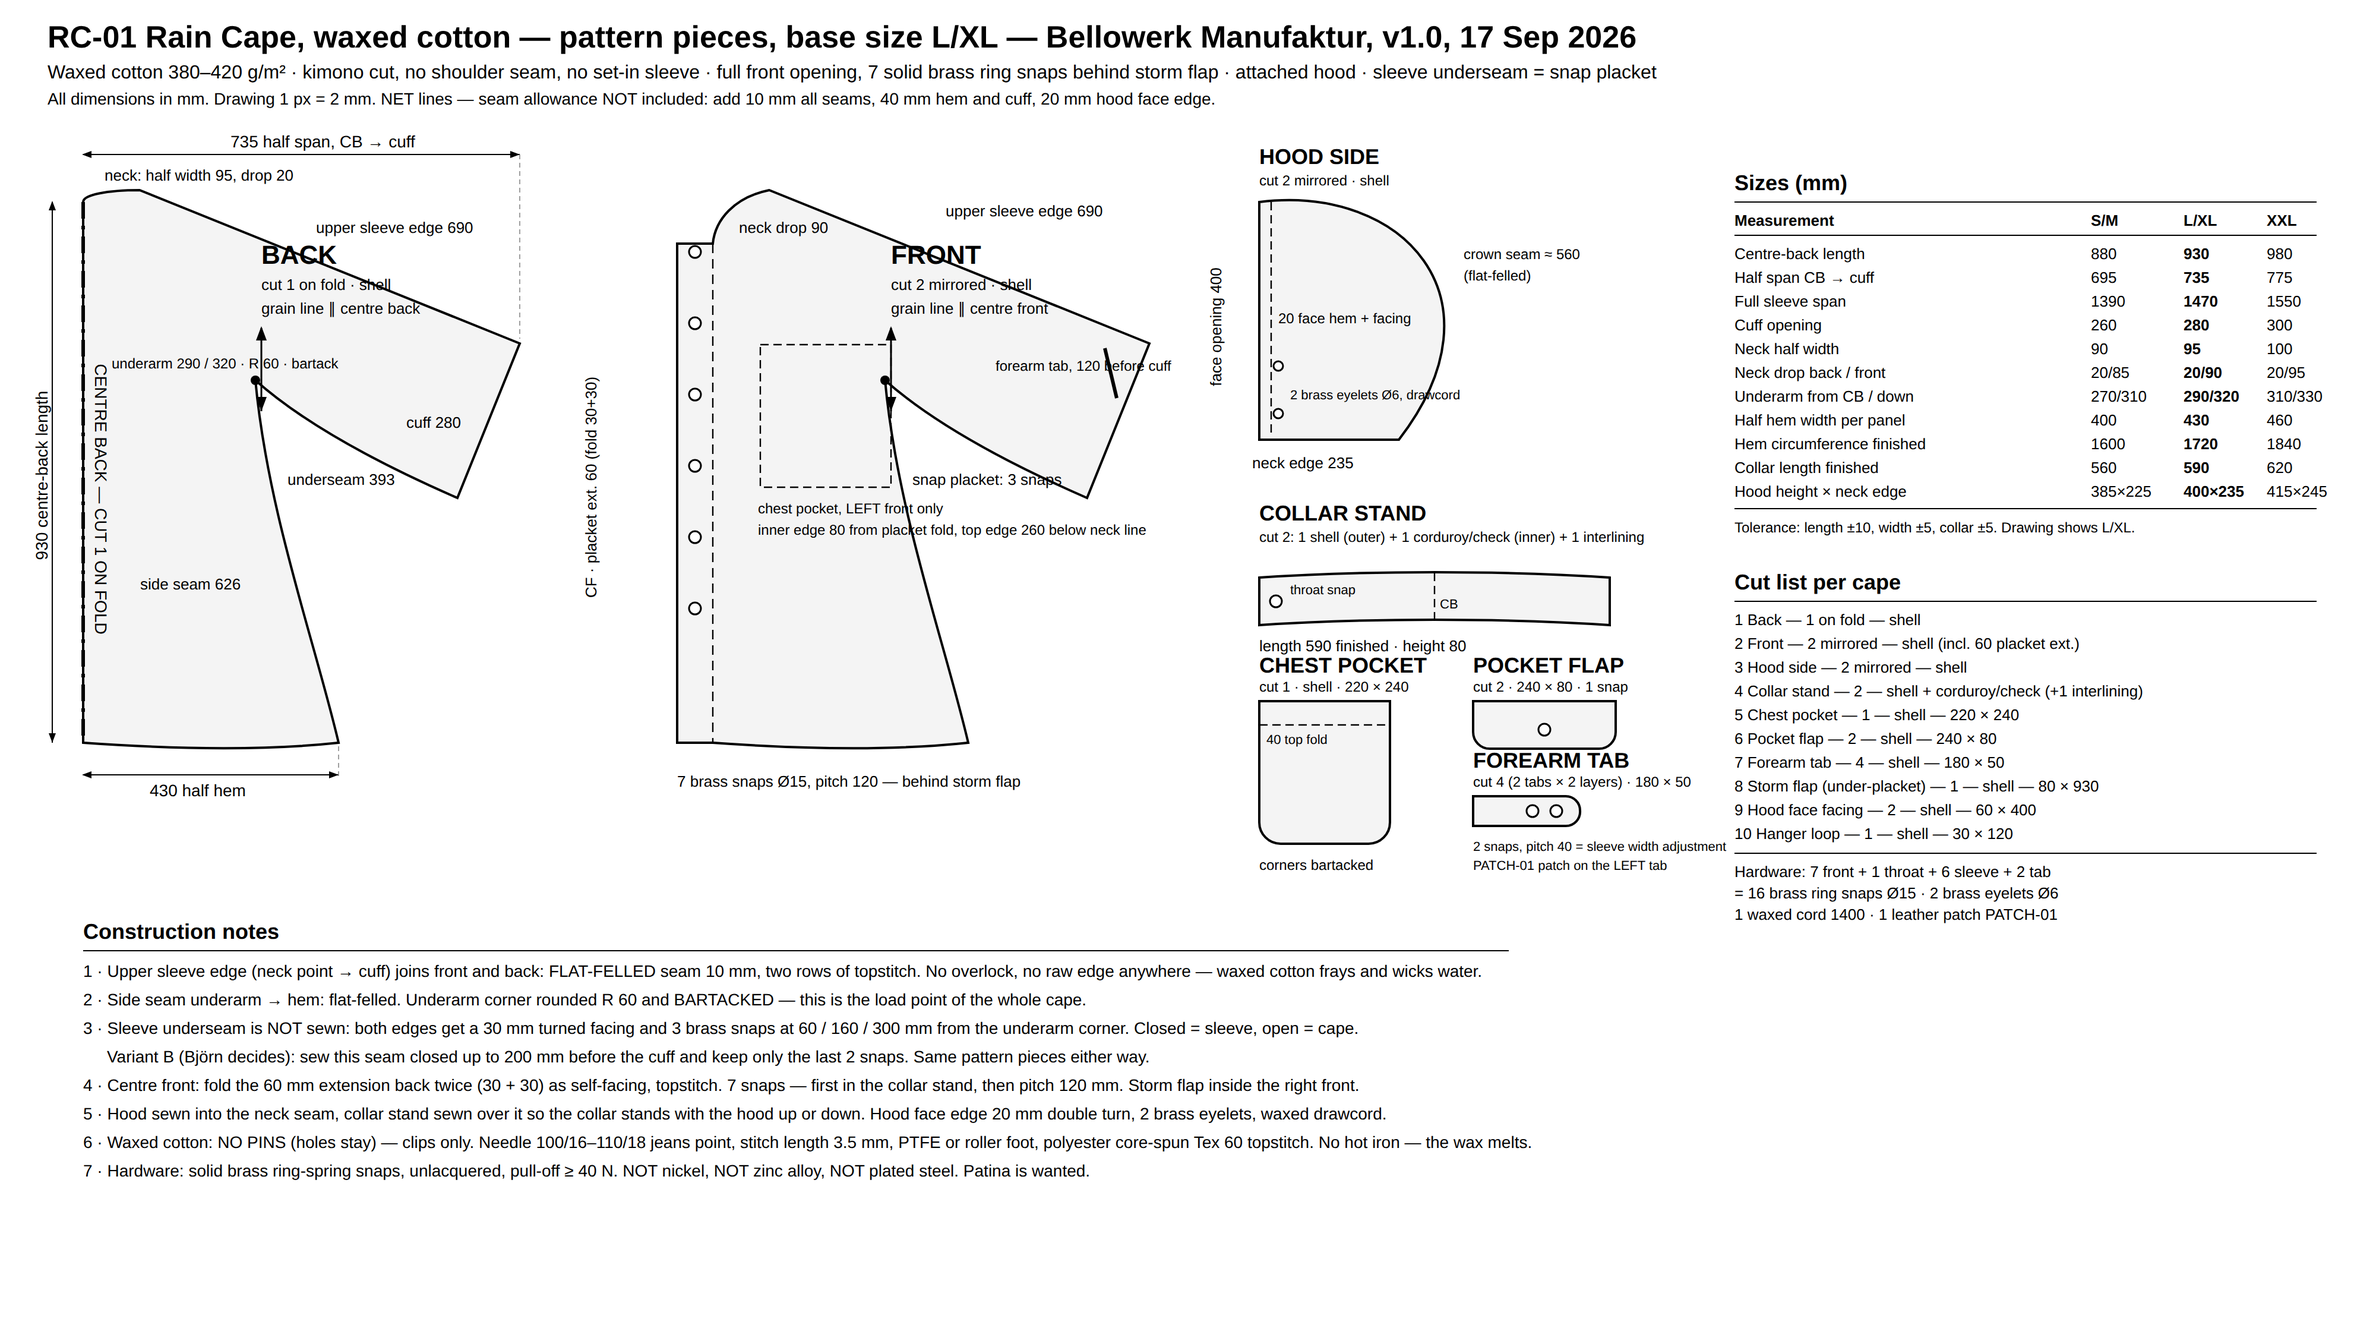
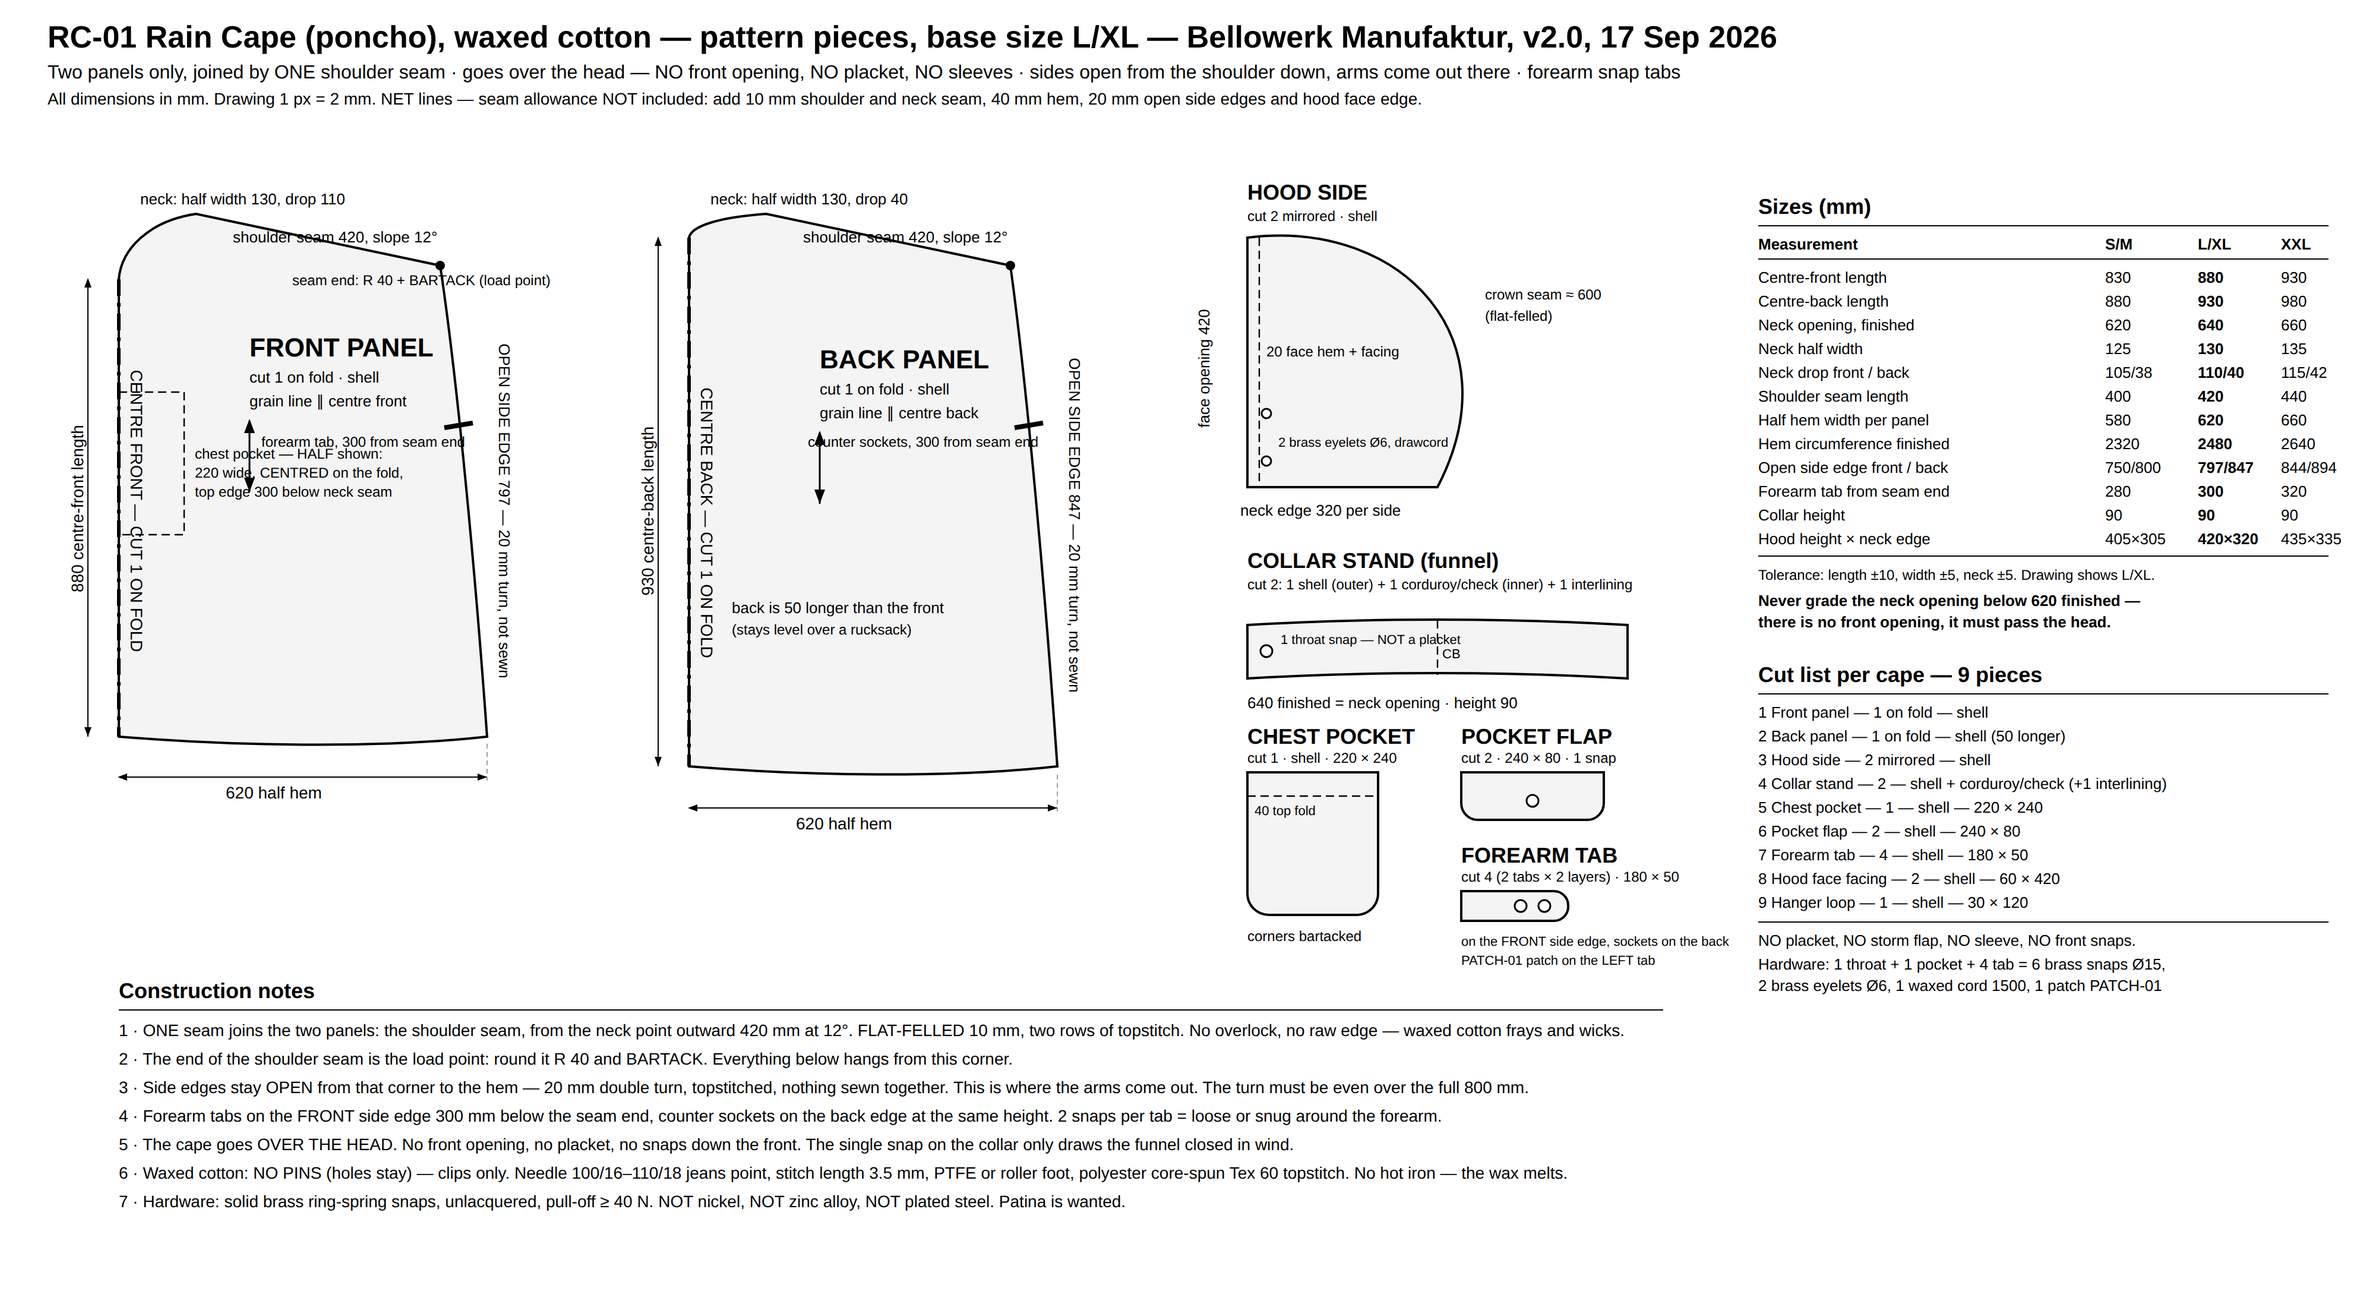
RC-01 v2.0: Cape statt Mantel — Poncho-Schnitt korrigiert
v1.0 hatte einen Mantel gezeichnet: Frontöffnung mit Knopfleiste und
geschlossene Ärmel. Falsch. Es ist ein Cape: über den Kopf, keine Leiste,
keine Ärmel. Zwei Teile, eine Schulternaht, Seiten ab Schulterende offen —
da kommen die Arme raus. Einzige Schließung am Korpus sind die
Unterarm-Riegel, die Vorder- und Rückenkante zusammenziehen.

Halsausschnitt dadurch kritisch: mindestens 620 mm fertig, muss über den Kopf.
Steht als eigene Prüfposition in der Abnahme. Teilezahl von 10 auf 9,
Beschläge von 16 auf 6 Druckknöpfe.

Claude-Session: https://claude.ai/code/session_01TCjyw6Et76p2KV5CRMgwz7

diff --git a/sourcing/bellowerk/specs/RC-01-regencape-oilskin.md b/sourcing/bellowerk/specs/RC-01-regencape-oilskin.md
@@ -1,10 +1,13 @@
-# RC-01 — Rain Cape, Waxed Cotton (Tech Pack v1.0, 17 Sep 2026)
+# RC-01 — Rain Cape, Waxed Cotton (Tech Pack v2.0, 17 Sep 2026)
 
 Bellowerk Manufaktur, Hamburg, Germany. Contact: Björn (owner).
 Attachment: `zeichnungen/RC-01-regencape.png` (pattern pieces, all dimensions).
-Reference product: our own cape "THE CAPE" (@herr.bello.und.frau.wuff) — the new version is
-**open at the centre front** instead of a pullover, and the sleeve can be **closed at the forearm
-with snaps**.
+Reference product: our own cape "THE CAPE" (@herr.bello.und.frau.wuff).
+
+> **v2.0 corrects v1.0.** v1.0 wrongly drew a coat: front opening with a snap placket and closed
+> sleeves. It is a **cape**: pulled over the head, **no front opening, no placket, no sleeves**.
+> The sides are open from the shoulder down — that is where the arms come out. The only closure on
+> the body is a pair of snap tabs that draw the open edges together at the forearm.
 
 > **New product category.** This is the first textile product. The material rules in
 > `markenbrief.md` (leather + solid brass, no stitching, no thread) describe the leather line and
@@ -12,97 +15,103 @@ with snaps**.
 
 ## 1. Product
 
-Wide A-line rain cape in waxed cotton for dog walking. Kimono cut: sleeve and body cut in one
-piece, no set-in sleeve, no shoulder seam. Full centre-front opening with brass ring snaps behind a
-storm flap. Attached hood, stand collar, one chest patch pocket with flap. The sleeve underseam is
-**not** a closed seam but a snap placket, so the arm section opens completely (cape) or closes
-around the forearm (sleeve). Worn over a jumper, long enough to cover the hips while walking.
+Wide poncho-style rain cape in waxed cotton for dog walking. **Two panels only** — front and back,
+each cut on the fold — joined by a shoulder seam that runs from the neck out over the shoulder and
+a little way down the upper arm. Below that the side edges hang **completely open**: the cape
+drapes over the arms, and the hands come out at the side. A pair of brass snap tabs at forearm
+height pulls the front and back edge together when it is windy; open, the cape falls free.
+
+Funnel-style stand collar with attached hood. One patch pocket with a flap, centred on the chest.
+No front opening — the cape goes over the head, which is why the neck opening is cut wide
+(**minimum 620 mm finished**, must pass the head).
 
 ## 2. Material
 
 | Part | Specification |
 |---|---|
 | Shell | **Waxed cotton ("oilskin")**, 100 % cotton, paraffin/beeswax dry-wax finish, **380–420 g/m²** (10–12 oz), plain or 2/2 twill weave. Halley Stevensons / British Millerain quality or equal. Re-waxable, **not** PU- or PVC-coated. Water column ≥ 800 mm, breathable. Colours: black, dark olive, dark brown (send swatches). |
-| Hood + collar facing | Same waxed cotton. Inside of collar stand: cotton corduroy or check cotton (see HM-01 lining), 8 wales/cm, 280 g/m². |
+| Hood + collar inner | Same waxed cotton outside. Inside of the collar stand: cotton corduroy or the HM-01 check cotton, 280 g/m². |
 | Snaps | **Ring-spring snaps, solid brass**, cap Ø 15 mm, unlacquered / antique brass. Pull-off ≥ 40 N. NOT nickel, NOT zinc alloy ("Zamak"), NOT plated steel. |
 | Eyelets | Solid brass, inner Ø 6 mm, 2 pcs in the hood face hem. |
 | Thread | Polyester core-spun, **Tex 60 / Tkt 40** (topstitch) and Tex 40 / Tkt 60 (assembly), colour matched, UV- and rot-resistant. |
-| Drawcord | Waxed cotton cord Ø 4 mm, 1400 mm, brass-tipped or knotted, no plastic toggles. |
-| Label | Leather patch PATCH-01 (see `specs/PATCH-01-markenpatch.md`), sewn (not screwed) to the left forearm tab. Care label + size label in the collar. |
+| Drawcord | Waxed cotton cord Ø 4 mm, 1500 mm, brass-tipped or knotted, no plastic toggles. |
+| Label | Leather patch PATCH-01 (see `specs/PATCH-01-markenpatch.md`), sewn (not screwed) to the left forearm tab. Care + size label in the collar. |
 | Interlining | Collar stand only: woven fusible or sewn-in cotton canvas, 1 layer. |
 
-Not acceptable: PU/PVC coating, nylon, plastic snaps or toggles, zinc alloy hardware, visible
-raw edges, hook-and-loop fastener.
+Not acceptable: PU/PVC coating, nylon, plastic snaps or toggles, zinc alloy hardware, visible raw
+edges, hook-and-loop fastener.
 
 ## 3. Sizes (3 sizes, generous cape fit — starting values, confirm on the first sample)
 
 | Measurement (mm) | S/M (DE 34–38) | L/XL (DE 40–44) | XXL (DE 46–50) |
 |---|---|---|---|
-| Centre-back length, neck line → hem | 880 | **930** | 980 |
-| Half span, centre back → cuff | 695 | **735** | 775 |
-| Full sleeve span (2 × half span) | 1390 | **1470** | 1550 |
-| Cuff opening (sleeve end) | 260 | **280** | 300 |
-| Neck half width (front = back) | 90 | **95** | 100 |
-| Neck drop back / front | 20 / 85 | **20 / 90** | 20 / 95 |
-| Underarm point, from CB / from neck line | 270 / 310 | **290 / 320** | 310 / 330 |
-| Half hem width, per panel | 400 | **430** | 460 |
-| Hem circumference, finished | 1600 | **1720** | 1840 |
-| Collar length, finished | 560 | **590** | 620 |
-| Hood height × neck edge | 385 × 225 | **400 × 235** | 415 × 245 |
-| Front placket extension | 60 | **60** | 60 |
+| Centre-front length, neck seam → hem | 830 | **880** | 930 |
+| Centre-back length, neck seam → hem | 880 | **930** | 980 |
+| Neck opening, finished circumference | 620 | **640** | 660 |
+| Neck half width (front = back) | 125 | **130** | 135 |
+| Neck drop, front / back | 105 / 38 | **110 / 40** | 115 / 42 |
+| Shoulder seam, neck point → end | 400 | **420** | 440 |
+| Shoulder seam slope | 12° | **12°** | 12° |
+| Half hem width per panel | 580 | **620** | 660 |
+| Hem circumference, finished | 2320 | **2480** | 2640 |
+| Open side edge, front / back | 750 / 800 | **797 / 847** | 844 / 894 |
+| Forearm tab, from shoulder seam end | 280 | **300** | 320 |
+| Collar height | 90 | **90** | 90 |
+| Hood height × neck edge per side | 405 × 305 | **420 × 320** | 435 × 335 |
 
-L/XL is the base size in the drawing; the other sizes grade from it by the values above.
-Tolerance: lengths ±10 mm, widths ±5 mm, collar ±5 mm.
+The back is 50 mm longer than the front so the cape stays level when worn with a rucksack.
+L/XL is the base size in the drawing. Tolerance: lengths ±10 mm, widths ±5 mm, neck opening ±5 mm.
+
+**The neck opening is the critical measurement.** There is no front opening, so it has to pass the
+head. Never grade it below 620 mm finished.
 
 ## 4. Pattern pieces (per cape)
 
 | # | Piece | Cut | Material | Finished size |
 |---|---|---|---|---|
-| 1 | Back | 1 on fold | shell | see drawing |
-| 2 | Front | 2 mirrored | shell | see drawing, incl. 60 mm placket extension |
-| 3 | Hood side | 2 mirrored | shell | 400 × 235 mm neck edge |
-| 4 | Collar stand | 2 (outer + inner) | shell / corduroy | 590 × 80 mm |
+| 1 | Front panel | 1 on fold | shell | see drawing |
+| 2 | Back panel | 1 on fold | shell | see drawing, 50 longer than front |
+| 3 | Hood side | 2 mirrored | shell | 420 × 320 mm neck edge |
+| 4 | Collar stand | 2 (outer + inner) | shell / corduroy | 640 × 90 mm |
 | 5 | Chest pocket | 1 | shell | 220 × 240 mm |
 | 6 | Pocket flap | 2 | shell | 240 × 80 mm |
 | 7 | Forearm tab | 4 (2 tabs × 2 layers) | shell | 180 × 50 mm |
-| 8 | Storm flap (under-placket) | 1 | shell | 80 × 930 mm |
-| 9 | Hood face hem facing | 2 | shell | 60 × 400 mm |
-| 10 | Hanger loop | 1 | shell | 30 × 120 mm |
+| 8 | Hood face facing | 2 | shell | 60 × 420 mm |
+| 9 | Hanger loop | 1 | shell | 30 × 120 mm |
 
-**Seam allowance is NOT included in the drawing.** Add 10 mm on all seams, **40 mm** on the hem and
-the sleeve/cuff edge, 20 mm on the hood face edge.
+Nine pieces, no placket, no storm flap, no sleeve. **Seam allowance is NOT included in the
+drawing.** Add 10 mm on the shoulder and neck seams, **40 mm** on the hem, **20 mm** on the open
+side edges and the hood face edge.
 
 ## 5. Construction
 
-1. **Shoulder/sleeve seam**: join front to back along the upper sleeve edge (neck point → cuff),
-   **flat-felled seam 10 mm**, two rows of topstitching. No overlock, no raw edge anywhere.
-2. **Side seam**: from the underarm corner down to the hem, flat-felled. Round the underarm corner
-   R 60 mm and **bartack** it — this is the load point.
-3. **Sleeve underseam = snap placket, not a seam.** Both edges (front and back) get a 30 mm turned
-   facing. Set **3 brass snaps** on it: first 60 mm from the underarm corner, then at 160 mm and
-   at 300 mm, the last one 90 mm before the cuff edge. Closed = sleeve, open = cape.
-   *(Variant B, if Björn prefers the original look: sew this seam closed from the underarm to
-   200 mm before the cuff and keep only the last 2 snaps. Same pattern pieces.)*
-4. **Centre front**: fold the 60 mm extension back twice (30 + 30) as a self-facing, topstitch.
-   **7 brass snaps**, the first in the collar stand, then pitch 120 mm downwards. Storm flap (#8)
-   sewn to the inside of the right front, so water cannot reach the snap line.
-5. **Hood**: join the two hood sides along the crown seam, flat-felled. Face edge: 20 mm double
-   turn with the facing (#9), **2 brass eyelets** 80 mm apart at the front bottom, drawcord through.
-   Hood sewn into the neck seam.
-6. **Collar**: stand collar 80 mm high, outer in shell, inner in corduroy/check, one layer of
-   interlining. Sewn over the hood neck seam so the collar stands with the hood up or down.
-   1 snap at the throat.
-7. **Chest pocket**: left front, top edge 260 mm below the neck line, inner edge 80 mm from the
-   placket fold. Patch pocket, 40 mm top fold, corners bartacked. Flap over it, 1 brass snap
-   centred.
-8. **Forearm tabs**: 2 layers, edge-stitched, sewn to the upper sleeve edge 120 mm before the cuff.
-   **2 snaps per tab** (pitch 40 mm) so the sleeve width adjusts over a jumper.
+1. **Shoulder seam** — the only seam joining front and back. From the neck point outward for
+   420 mm, sloping 12° down. **Flat-felled 10 mm**, two rows of topstitching. No overlock, no raw
+   edge anywhere.
+2. **End of the shoulder seam is the load point**: round it R 40 and **bartack** it. Everything
+   below hangs from this corner.
+3. **Open side edges** — front and back edge from the shoulder seam end down to the hem: 20 mm
+   double turn, topstitched. These edges are visible from both sides when the cape moves, so the
+   turn must be even over the whole 800 mm. Nothing is sewn together here.
+4. **Forearm tabs**: 2 layers, edge-stitched, sewn to the **front** side edge 300 mm below the
+   shoulder seam end. **2 snaps per tab** (pitch 40 mm) so the cape closes loosely or snugly around
+   the forearm. The counter sockets sit on the back side edge at the same height.
    PATCH-01 leather patch sewn on the **left** tab.
+5. **No front opening, no placket, no snaps down the front.** The cape goes over the head.
+6. **Hood**: join the two hood sides along the crown seam, flat-felled. Face edge 20 mm double turn
+   with the facing (#8), **2 brass eyelets** 80 mm apart at the front bottom, waxed drawcord.
+   Hood sewn into the neck seam.
+7. **Collar**: funnel stand 90 mm high, outer in shell, inner in corduroy/check, one layer of
+   interlining. Sewn over the hood neck seam so the collar stands with the hood up or down.
+   **1 brass snap at the throat** to draw the funnel closed in wind — this is the only snap on the
+   collar, it is not a placket.
+8. **Chest pocket**: **centred on the centre front**, top edge 300 mm below the neck seam. Patch
+   pocket, 40 mm top fold, corners bartacked. Flap over it, 1 brass snap centred.
 9. **Hem**: 40 mm double turn, topstitched. Hanger loop in the neck seam at centre back.
-10. **Sewing rules for waxed cotton**: no pins (holes stay) — use clips. Needle 100/16–110/18
-    jeans/leather point, stitch length 3.5 mm, PTFE or roller foot. Do not press with a hot iron
-    (the wax melts) — finger-press or use a cool iron with paper. Every seam flat-felled or bound;
-    waxed cotton frays and wicks water along raw edges.
+10. **Sewing rules for waxed cotton**: no pins (holes stay) — use clips. Needle 100/16 or 110/18
+    jeans point, stitch length 3.5 mm, PTFE or roller foot. Do not press with a hot iron (the wax
+    melts) — finger-press or use a cool iron with paper. Every seam flat-felled or turned; waxed
+    cotton frays and wicks water along raw edges.
 
 ## 6. Quantity and packaging
 
@@ -119,20 +128,21 @@ the sleeve/cuff edge, 20 mm on the hood face edge.
 1. Pattern per size as **PDF 1:1 and DXF** (all pieces, grain lines, notches, snap positions,
    seam allowance marked separately)
 2. Fabric data sheet: weight, weave, wax type and quantity, water column, shrinkage after 3 cycles
-3. Brass statement for snaps and eyelets (alloy, plating none, pull-off force)
-4. REACH / Prop 65 statement, lead and nickel release test for the brass hardware
-5. Rub and rain test: 2 h simulated rain, no water passage at the snap line or shoulder seam
-6. Photo of every size before shipment, laid flat with a tape measure
+3. Brass statement for snaps and eyelets (alloy, no plating, pull-off force)
+4. REACH statement, lead and nickel release test for the brass hardware
+5. Rain test: 2 h simulated rain, no water passage at the shoulder seam or the neck seam
+6. **Head-pass check on every size**: the finished neck opening must pass a 590 mm head form
+7. Photo of every size before shipment, laid flat with a tape measure
 
 ## 8. Open decisions for Björn (nothing ordered, nothing promised)
 
 1. **New product category.** The cape is textile, not leather. `markenbrief.md` currently excludes
    thread, seams and non-leather materials. Do we extend the brand brief by a textile line, or does
    the cape run under the former name "Herr Bello & Frau Wuff"?
-2. **Sleeve variant A or B** (section 5.3) — fully opening arm, or closed seam with tabs only.
+2. **Hand slits**: should the front panel get two vertical welt slits at hand height, so you can
+   keep the cape closed around you and still reach out? The reference cape has none.
 3. **Hood**: fixed as specified, or detachable with 5 snaps (+ ~4 EUR/pc)?
-4. **Hand pockets**: two additional patch pockets at hip height — yes or no?
-5. **Colour range** for the first order.
+4. **Colour range** for the first order.
 
 ## 9. Questions to answer in your quotation
 
@@ -143,4 +153,5 @@ the sleeve/cuff edge, 20 mm on the hood face edge.
 5. Payment terms (we propose 30 % after golden sample, 70 % after final inspection before shipment)
 6. Which waxed cotton do you stock, and at which weight — mill name and article number
 7. Photo and weight in grams of the exact brass snap and eyelet you would use
-8. Are pattern files (PDF 1:1 + DXF) included — yes/no
+8. Fabric consumption per cape per size, and the usable width you calculated with
+9. Are pattern files (PDF 1:1 + DXF) included — yes/no
